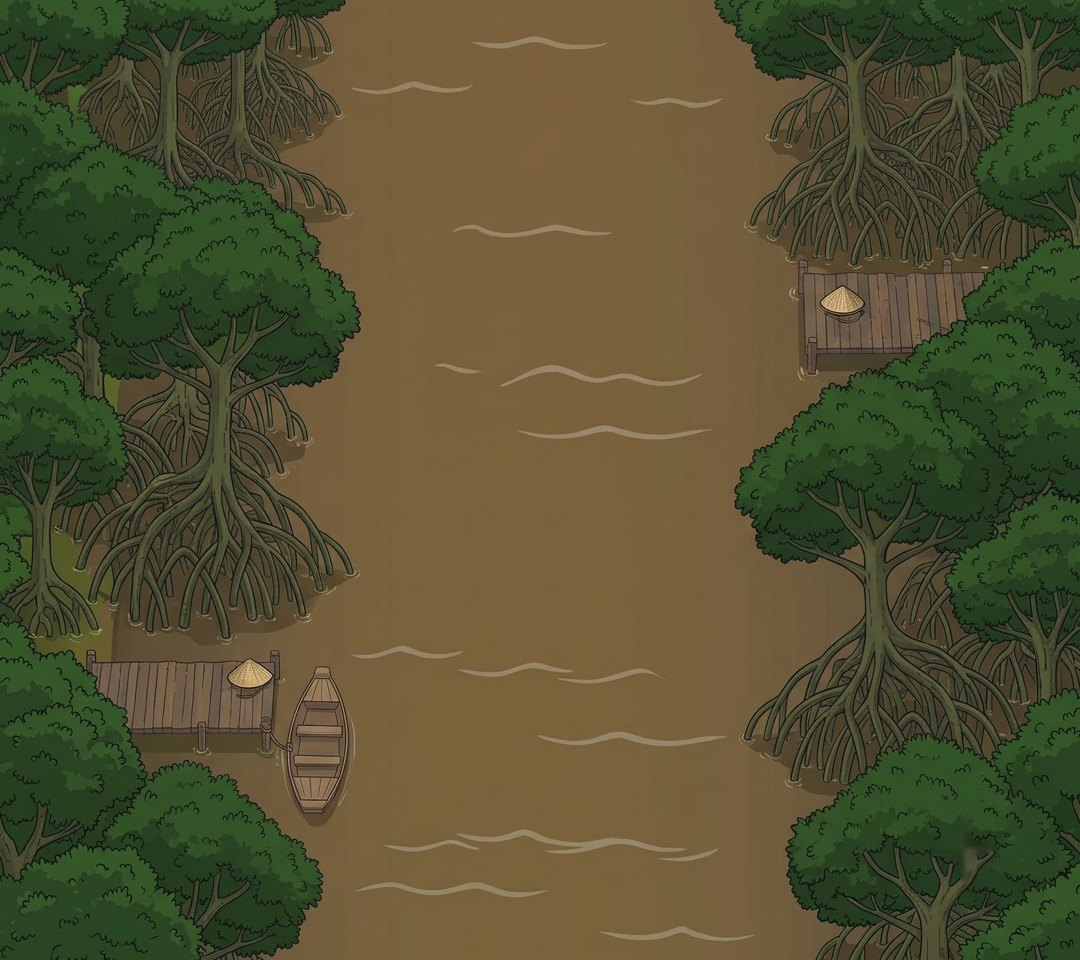
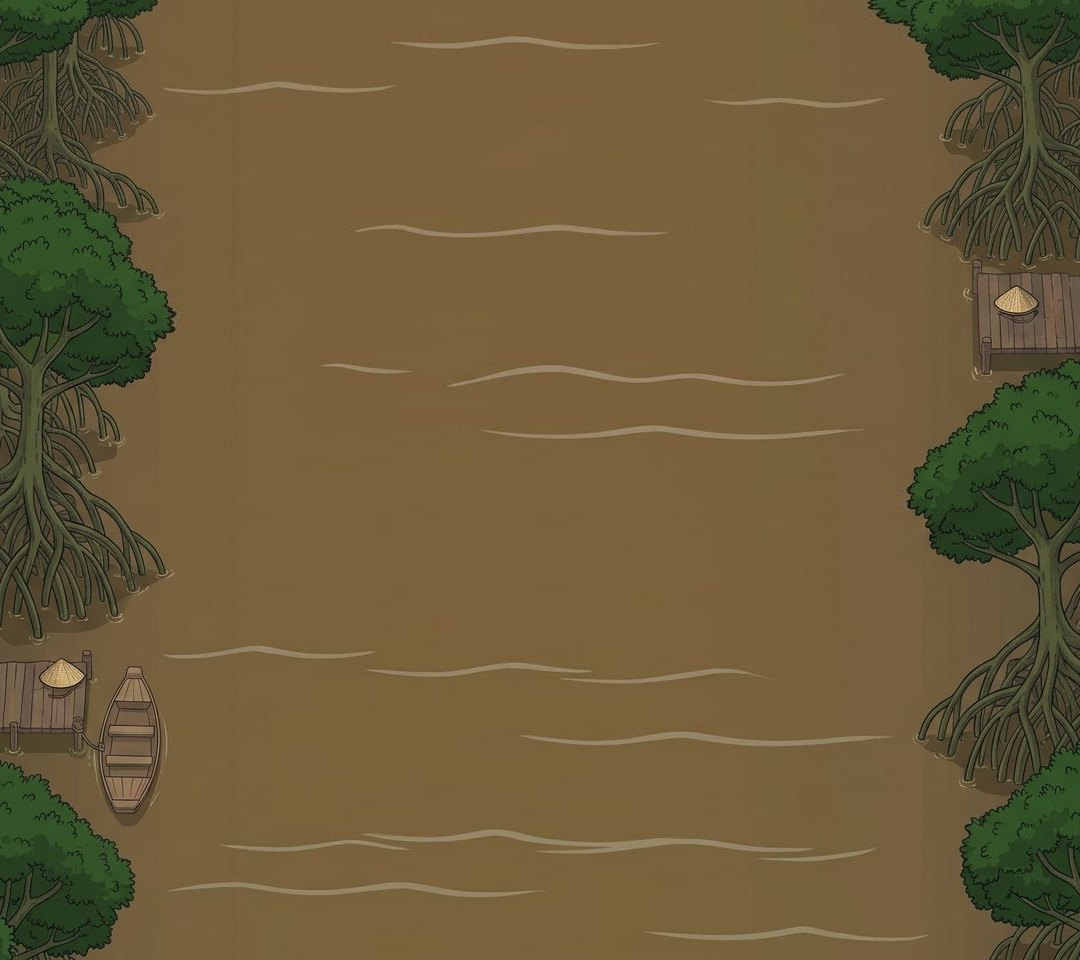
Ghe chạy trong lòng sông: nới mặt nước ảnh nền, thu làn đua
Claude-Session: https://claude.ai/code/session_01Rw4Gf3eqcFs32RFHEV5mZN

diff --git a/src/game/GameStage.tsx b/src/game/GameStage.tsx
@@ -12,10 +12,11 @@ import { saoText } from './chang';
 import { Ghe, VetNuoc } from './ve/Ghe';
 import { NenSong } from './ve/Song';
 
-const LAN_X = [150, 306, 462, 618, 774, 930]; // tâm 6 làn
+// tâm 6 làn: nằm gọn trong lòng sông (ảnh nền: bờ mỗi bên 170 px, nước 170-910)
+const LAN_X = [232, 355, 478, 601, 724, 847];
 const Y_DAU = 540; // mũi ghe dẫn đầu
 const TAM = 420; // ghe càng xa càng lùi xuống, tối đa chừng này px (nhãn vẫn ghi đúng số mét)
-const RONG = [54, 62, 68, 76]; // bề ngang ghe theo cấp
+const RONG = [48, 54, 60, 66]; // bề ngang ghe theo cấp
 
 const vien = (mau: string, d = 4) =>
   ({ textShadow: `0 ${d}px 0 #2a0d18, ${d}px 0 0 #2a0d18, -${d}px 0 0 #2a0d18, 0 -${d}px 0 #2a0d18, ${d}px ${d}px 0 #2a0d18, -${d}px ${d}px 0 #2a0d18, ${d}px -${d}px 0 #2a0d18, -${d}px -${d}px 0 #2a0d18, 0 ${d * 2}px 0 #0006`, color: mau }) as const;
@@ -50,7 +51,7 @@ export function GameStage({ game }: { game: GameState }) {
         const g = chinh.find((x) => x.tinh === h.tinh);
         if (!g) return null;
         return (
-          <div key={h.id} className="ho-che absolute whitespace-nowrap rounded-2xl bg-white px-4 py-1 text-[26px] font-extrabold text-[#2a0d18] shadow-lg" style={{ left: g.lan >= 3 ? LAN_X[g.lan] - 230 : LAN_X[g.lan] + 40, top: yMui(g, dau?.m ?? 0) + 120 }}>
+          <div key={h.id} className="ho-che absolute whitespace-nowrap rounded-2xl bg-white px-4 py-1 text-[26px] font-extrabold text-[#2a0d18] shadow-lg" style={{ left: g.lan >= 3 ? LAN_X[g.lan] - 200 : LAN_X[g.lan] + 34, top: yMui(g, dau?.m ?? 0) + 120 }}>
             {h.text}
           </div>
         );
@@ -259,8 +260,8 @@ function GheChinh({ g, dauM, nuocRut }: { g: GheView; dauM: number; nuocRut: boo
           {g.ngan}
           {g.sanNha ? ' 🏠' : ''}
         </div>
-        <div className="mt-1 whitespace-nowrap rounded-full border-2 bg-[#0b2530ee] px-3 text-[22px] font-bold" style={{ borderColor: mau.vien }}>
-          {g.hang}. {g.ten} · 🛶{g.so}
+        <div className="mt-1 whitespace-nowrap rounded-full border-2 bg-[#0b2530ee] px-2 text-[19px] font-bold" style={{ borderColor: mau.vien }}>
+          {g.hang}. {g.ten} · {g.so}
         </div>
       </div>
     </div>

diff --git a/src/game/ve/Song.tsx b/src/game/ve/Song.tsx
@@ -47,8 +47,8 @@ export const NenSong = memo(function NenSong({ changId, nhanh, songHep }: { chan
         ))}
       </div>
       {/* khúc sông hẹp: bờ lấn vào */}
-      <div className="bo-lan absolute bottom-0 top-0 left-0" style={{ width: songHep ? 250 : 0, background: `linear-gradient(90deg, ${bo} 70%, ${c.bo[0]})` }} />
-      <div className="bo-lan absolute bottom-0 top-0 right-0" style={{ width: songHep ? 250 : 0, background: `linear-gradient(270deg, ${bo} 70%, ${c.bo[0]})` }} />
+      <div className="bo-lan absolute bottom-0 top-0 left-0" style={{ width: songHep ? 195 : 0, background: `linear-gradient(90deg, ${bo} 70%, ${c.bo[0]})` }} />
+      <div className="bo-lan absolute bottom-0 top-0 right-0" style={{ width: songHep ? 195 : 0, background: `linear-gradient(270deg, ${bo} 70%, ${c.bo[0]})` }} />
     </div>
   );
 });

diff --git a/CLAUDE.md b/CLAUDE.md
@@ -37,4 +37,4 @@ Game đua ghe ngo cho TikTok LIVE: 34 tỉnh thành thi nhau, người xem gõ t
 - Tên game "Ghe Ngo 34 Tỉnh", không dùng tên "Ghe Rồng Ba Miền" (2026-11-16).
 - Làm giống cấu trúc game gốc, kể cả quà làm ghe tăng tốc (2026-11-16). Khác Ai Là Trạng Nguyên (ở đó quà không cho lợi thế).
 - Hình vẽ tạm bằng code, chủ kênh có thể thay ảnh tự vẽ sau (2026-11-16).
-- Nền sông 10 chặng dùng ảnh Gemini vẽ (2026-11-16): public/assets/song/<id chặng>.jpg, 1080x960, đã xoá dấu ngôi sao. Các tấm lật ngược xen kẽ để chỗ nối khớp. Giữ nguyên ảnh Vịnh Hạ Long dù có hàng dừa giữa biển (chủ kênh chọn).
+- Nền sông 10 chặng dùng ảnh Gemini vẽ (2026-11-16): public/assets/song/<id chặng>.jpg, 1080x960, đã xoá dấu ngôi sao. Các tấm lật ngược xen kẽ để chỗ nối khớp. Lòng sông ảnh gốc hẹp (300-500 px) nên đã nới mặt nước ra 170-910 px, giữ 170 px bờ sát nước mỗi bên; 6 làn ghe đặt trong khoảng đó (`LAN_X` trong GameStage.tsx). Ảnh gốc chưa nới: chưa lưu trong repo. Giữ nguyên ảnh Vịnh Hạ Long dù có hàng dừa giữa biển (chủ kênh chọn).
